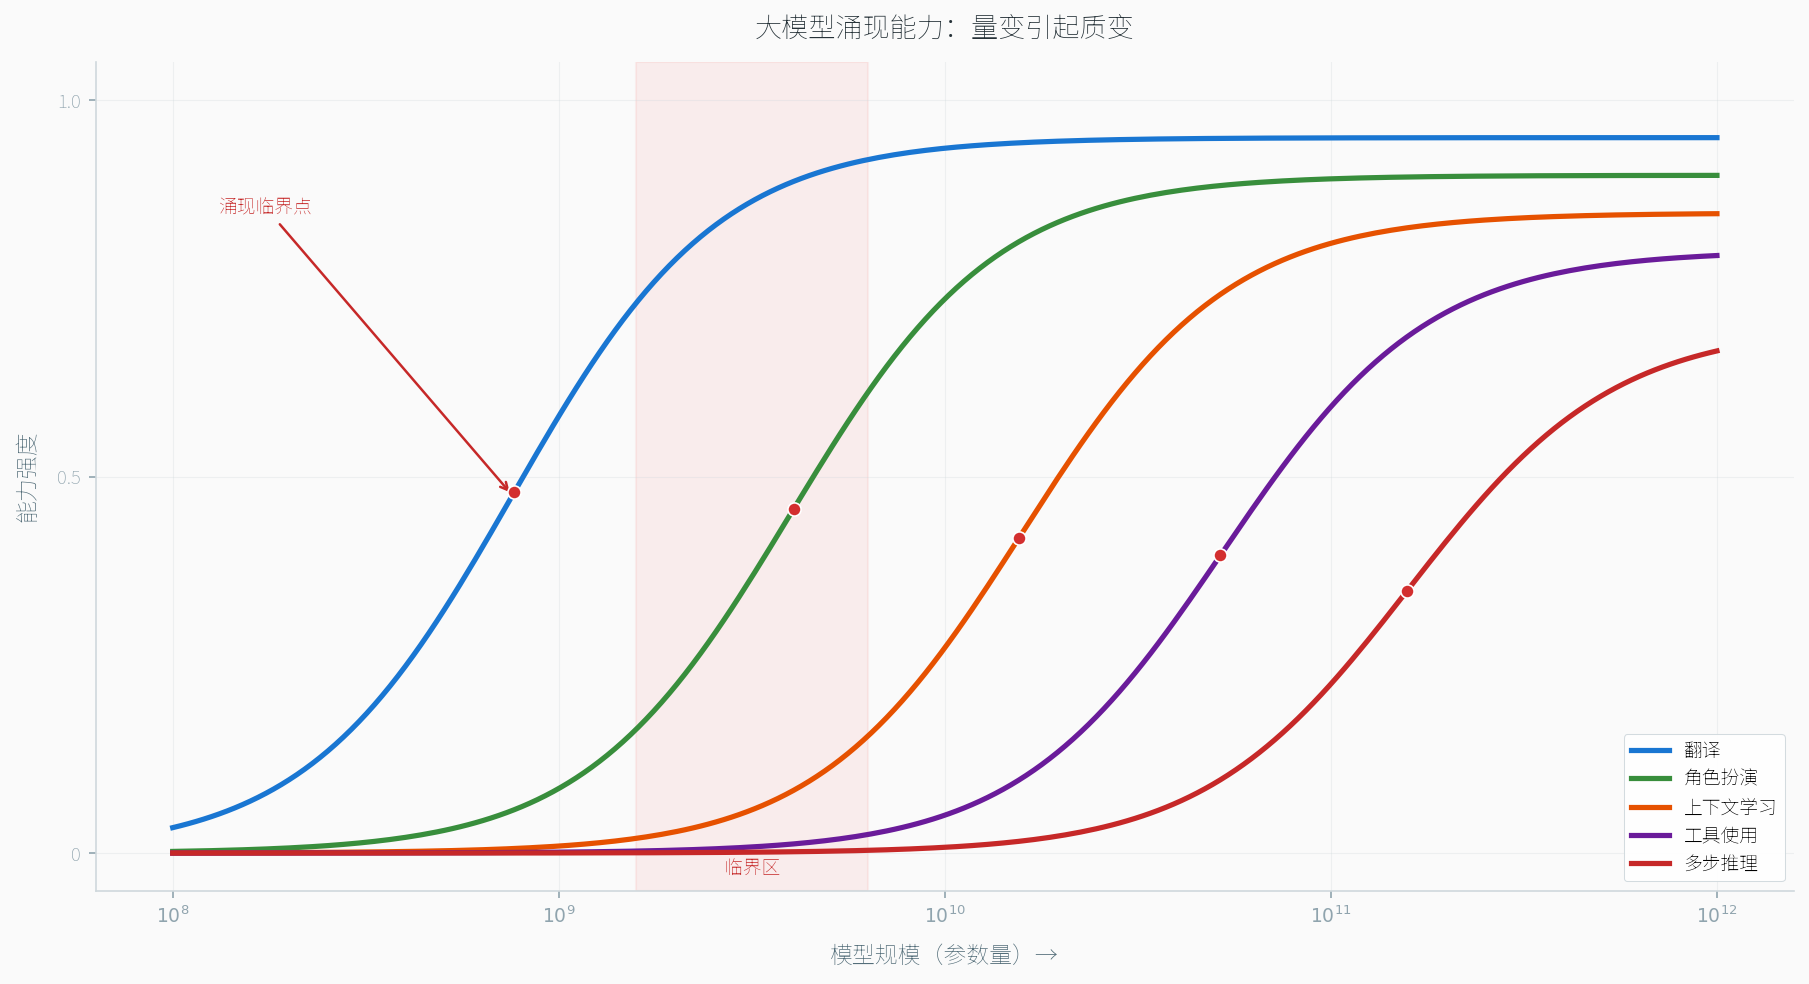
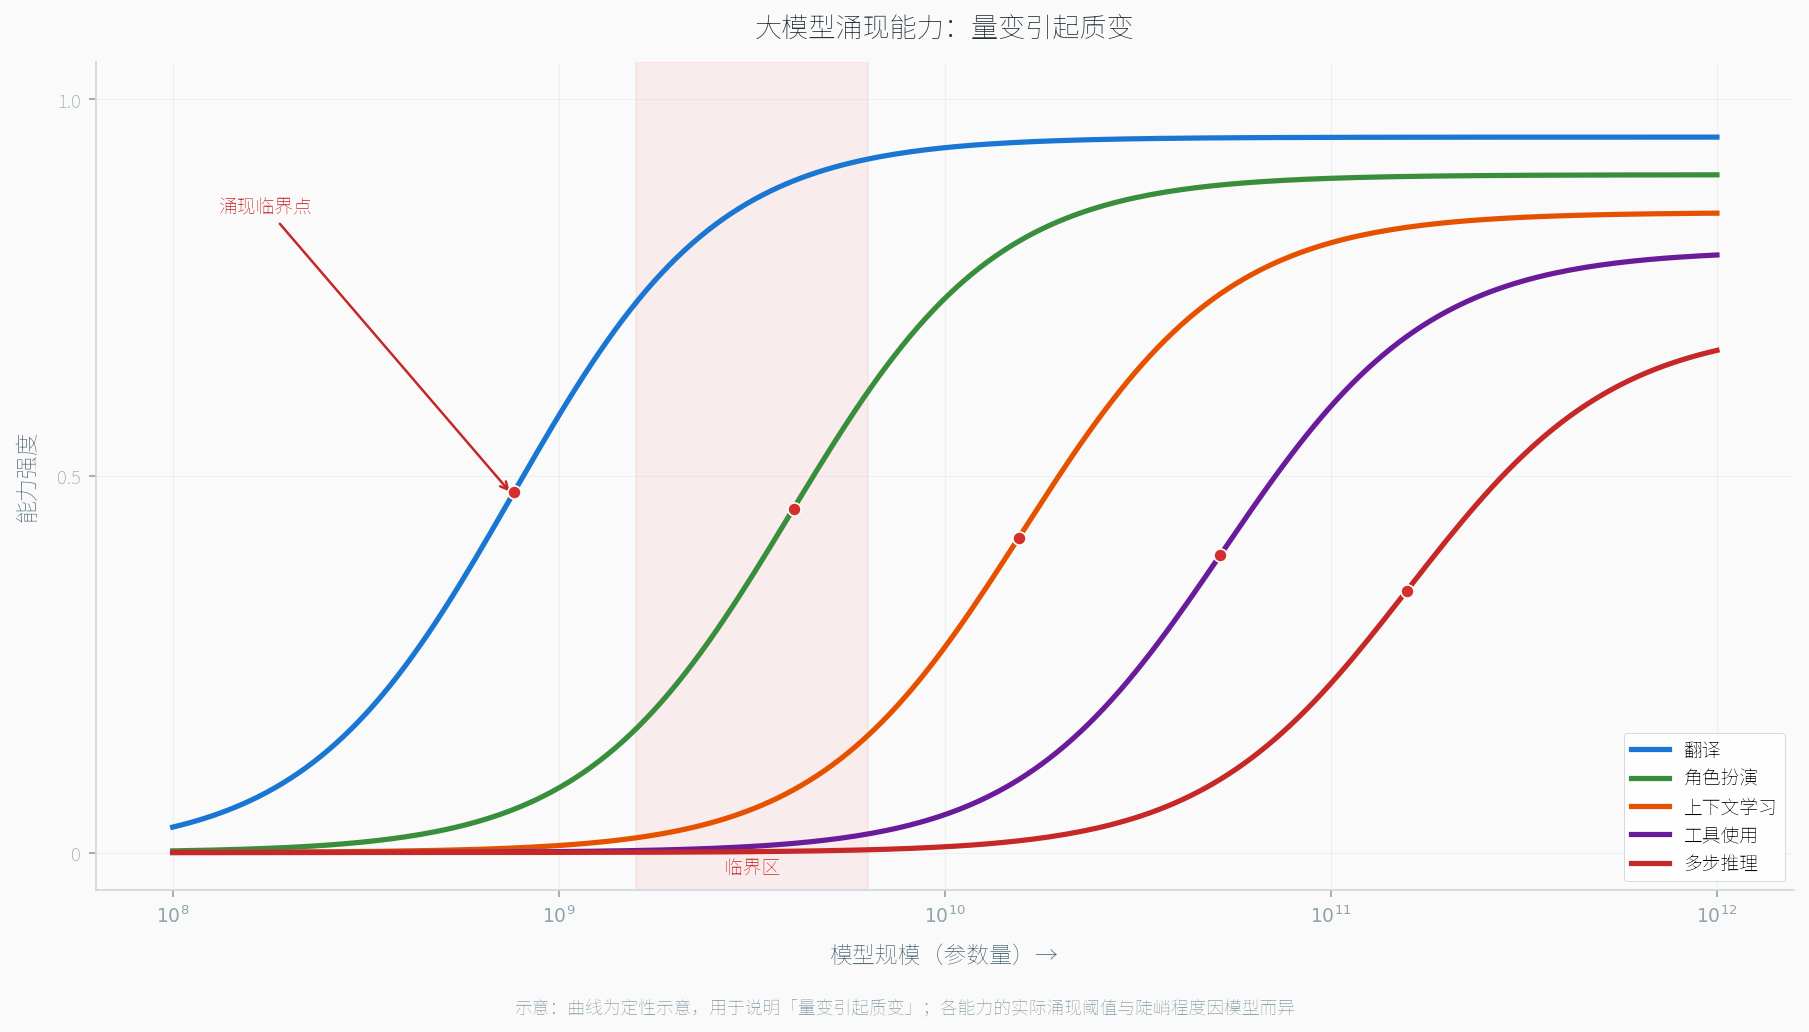
fix: 审阅并修复 6 张技术类插图，清理冗余资产
- multi-head-subspace：去掉「头编号 = 固定功能」的硬绑定，补示意说明行
- positional-encoding：补「d_model 已缩小为 64」的示意标注
- litellm-dashboard → litellm-admin-login：裁掉截图里的 DB 报错横幅，按内容重命名
- transformer-evolution-timeline：改用蓝图风重绘，补回年份并消除等距误导
- emergence-curves：补「示意」标注
- attention-complexity-comparison：补论文 Table 1 出处
- 压缩体积：litellm-api-docs 429→140KB，positional-encoding 328→122KB
- 删除孤儿图 attention-is-all-you-need-blueprint.png
- 补插漏引用的 report-agent-arch-4.jpg 至「记忆管理的两条路径」一节

diff --git a/scripts/blueprint-transformer-evolution.html b/scripts/blueprint-transformer-evolution.html
@@ -1,0 +1,138 @@
+<!DOCTYPE html>
+<html lang="zh-CN">
+<head>
+<meta charset="utf-8">
+<title>Transformer 九年演进 · 手绘图解</title>
+<style>
+__FONTFACE__
+:root{
+  --paper:#FDFBF7; --ink:#2D2D2D; --ink2:#7A7A7A;
+}
+*{box-sizing:border-box;margin:0;padding:0}
+html{background:#EFEDE6}
+body{
+  font-family:"Microsoft YaHei",sans-serif;color:var(--ink);line-height:1.6;
+  background:var(--paper);max-width:960px;margin:0 auto;padding:32px 40px 34px;
+}
+.cover-head{text-align:center;margin-bottom:6px}
+h1{font-family:"ZCOOL KuaiLe",sans-serif;font-size:30px;font-weight:400;letter-spacing:1.2px}
+h1 .dot{color:#7C3AED}
+.sub-en{font-family:"Caveat",cursive;font-size:24px;color:var(--ink2);margin-top:1px}
+.pnote{font-size:11px;color:var(--ink2);text-align:center;line-height:1.55;margin-top:6px}
+
+/* 时间轴 + 四阶段 */
+.phases{position:relative;display:flex;gap:9px;margin-top:30px}
+.phases::before{content:"";position:absolute;left:2.5%;right:2.5%;top:5px;
+  height:2px;background:#CFCAC0;z-index:0}
+.phase{flex:1 1 0;min-width:0;display:flex;flex-direction:column;align-items:center;
+  position:relative;color:#2563EB}
+.phase.p2{color:#D97706} .phase.p3{color:#7C3AED} .phase.p4{color:#16A34A}
+.axisrow{height:12px;display:flex;align-items:center;position:relative;z-index:2}
+.nd{width:12px;height:12px;border-radius:50%;background:currentColor;
+  box-shadow:0 0 0 2.4px var(--paper),0 0 0 3.8px currentColor}
+.yr{font-family:"Caveat",cursive;font-size:17.5px;font-weight:600;color:currentColor;
+  margin:2px 0 0}
+.ph-title{font-family:"ZCOOL KuaiLe",sans-serif;font-size:14.5px;color:var(--ink);
+  margin:1px 0 8px;text-align:center}
+
+.card{position:relative;width:100%;border-radius:9px;background:#fff;
+  box-shadow:2px 2px 0 #333;padding:9px 8px;display:flex;flex-direction:column;
+  flex:1 1 auto}
+.card::after{content:"";position:absolute;inset:-1px;border:1.6px solid #333;
+  border-radius:9px 12px 9px 11px;filter:url(#wobble);pointer-events:none}
+
+.item{position:relative;border-radius:6px;padding:4px 8px;margin-bottom:5px;
+  font-size:11px;line-height:1.5;background:#DBEAFE}
+.item:last-child{margin-bottom:8px}
+.item::after{content:"";position:absolute;inset:-1px;border:1.3px solid #333;
+  border-radius:6px 9px 6px 8px;filter:url(#wobble);pointer-events:none}
+.item.lead{font-weight:700}
+.item .y{font-family:Consolas,monospace;font-size:10.5px;color:#5a5a5a}
+.p2 .item{background:#FFEDD5} .p3 .item{background:#F3E8FF} .p4 .item{background:#DCFCE7}
+
+.resp{position:relative;width:100%;margin-top:auto;border-radius:7px;padding:5px 9px;
+  font-size:11px;line-height:1.5;background:#fff;box-shadow:2px 2px 0 #333;
+  border:1.4px dashed currentColor;text-align:center;color:#3f3f3f}
+.resp b{color:currentColor}
+
+.capsule{
+  margin-top:16px;display:flex;align-items:center;justify-content:center;gap:12px;
+  padding:10px 22px;background:#F9F1D2;border-radius:999px;
+  box-shadow:2.5px 2.5px 0 #333;position:relative;
+}
+.capsule::after{content:"";position:absolute;inset:-1px;border:1.8px solid #333;
+  border-radius:999px;filter:url(#wobble);pointer-events:none}
+.capsule .lbl{font-family:"Caveat",cursive;font-size:20px;color:#B45309}
+.capsule .txt{font-size:12.5px;color:#3a3a3a}
+</style>
+</head>
+<body>
+<svg width="0" height="0" style="position:absolute">
+  <filter id="wobble">
+    <feTurbulence type="fractalNoise" baseFrequency="0.009 0.014" numOctaves="3" seed="7" result="n"/>
+    <feDisplacementMap in="SourceGraphic" in2="n" scale="6.5" xChannelSelector="R" yChannelSelector="G"/>
+  </filter>
+</svg>
+
+<div class="cover-head">
+  <h1>Transformer 九年演进 <span class="dot">·</span> 手绘图解</h1>
+  <div class="sub-en">nine years, four phases</div>
+</div>
+<div class="pnote">四个阶段在时间上相互重叠、逐层叠加 —— 节点按阶段顺序排列，并非严格的时间刻度。</div>
+
+<div class="phases">
+  <div class="phase p1">
+    <div class="axisrow"><span class="nd"></span></div>
+    <div class="yr">2018 — 2020</div>
+    <div class="ph-title">拆解成三种形态</div>
+    <div class="card">
+      <div class="item">BERT <span class="y">2018</span> · Encoder-only · MLM</div>
+      <div class="item">GPT <span class="y">2018</span> / GPT-3 <span class="y">2020</span> · Decoder-only</div>
+      <div class="item">T5 <span class="y">2019</span> · Encoder-Decoder · Span 去噪</div>
+      <div class="resp">回应：<b>Encoder / Decoder 分工是否冗余</b></div>
+    </div>
+  </div>
+
+  <div class="phase p2">
+    <div class="axisrow"><span class="nd"></span></div>
+    <div class="yr">2020 — 2023</div>
+    <div class="ph-title">效率之战</div>
+    <div class="card">
+      <div class="item">Longformer <span class="y">2020</span> · 稀疏 / 线性注意力</div>
+      <div class="item">FlashAttention <span class="y">2022</span> · IO 感知 · 快 3~5×</div>
+      <div class="item">GQA / MQA <span class="y">2023</span> · 共享一组 K / V</div>
+      <div class="resp">回应：<b>O(n²) 的账单到了要还的时候</b></div>
+    </div>
+  </div>
+
+  <div class="phase p3">
+    <div class="axisrow"><span class="nd"></span></div>
+    <div class="yr">2021 — 2024</div>
+    <div class="ph-title">位置编码重写</div>
+    <div class="card">
+      <div class="item">RoPE <span class="y">2021</span> · 旋转 · 只依赖相对距离</div>
+      <div class="item">ALiBi <span class="y">2021</span> · 线性偏置 · 强外推</div>
+      <div class="item">YaRN / 插值 <span class="y">2023</span> · 4K → 32K+</div>
+      <div class="resp">回应：<b>正弦编码一旦外推就失效</b></div>
+    </div>
+  </div>
+
+  <div class="phase p4">
+    <div class="axisrow"><span class="nd"></span></div>
+    <div class="yr">2025 —</div>
+    <div class="ph-title">架构被重新提问</div>
+    <div class="card">
+      <div class="item">Transformer 能力上限之问 <span class="y">2026</span></div>
+      <div class="item">Mobius · 知识池与推理解耦</div>
+      <div class="item lead">跨模态支线：ViT <span class="y">2020</span> · 16×16 patch</div>
+      <div class="resp">回应：<b>注意力负责推理，知识放哪里</b></div>
+    </div>
+  </div>
+</div>
+
+<div class="capsule">
+  <span class="lbl">in short</span>
+  <span class="txt">每一阶段都在回答前一阶段暴露的短板 —— 更长、更快，以及知识到底该存在哪里</span>
+</div>
+</body>
+</html>

diff --git a/scripts/blueprint-multi-head-subspace.html b/scripts/blueprint-multi-head-subspace.html
@@ -23,6 +23,9 @@ h1 .dot{color:#7C3AED}
   padding-left:11px;border-left:4px solid #333}
 .sec .en{font-family:"Caveat",cursive;font-size:15px;color:var(--ink2);margin-left:7px}
 
+.hint{font-size:11px;color:#6b6b6b;line-height:1.55;margin:0 0 8px;padding-left:11px}
+.hint b{color:#333}
+
 .box{
   position:relative;border-radius:8px;padding:8px 10px;text-align:center;
   font-size:12.5px;font-weight:600;background:#fff;box-shadow:2px 2px 0 #333;
@@ -100,6 +103,7 @@ h1 .dot{color:#7C3AED}
 </div>
 
 <div class="sec">① 把 d_model 切成 8 份，每份独立做注意力<span class="en">split &amp; attend</span></div>
+<div class="hint">右侧模式标签为<b>示意</b>：每个头实际学到什么由训练动态决定，原论文只观察到「头之间发生分化」，并未给各头指派固定功能。</div>
 <div class="flow">
   <div class="left">
     <div class="box">X<span class="dim">n × 512</span></div>
@@ -114,7 +118,7 @@ h1 .dot{color:#7C3AED}
     <div class="head b2"><span class="no">Head 2</span><span class="dk">d_k = 64</span><span class="mode">代词指代</span></div>
     <div class="head b3"><span class="no">Head 3</span><span class="dk">d_k = 64</span><span class="mode">局部搭配</span></div>
     <div class="head b4"><span class="no">Head 4</span><span class="dk">d_k = 64</span><span class="mode">语义角色</span></div>
-    <div class="head b5"><span class="no">Head 5</span><span class="dk">d_k = 64</span><span class="mode">时态一致</span></div>
+    <div class="head b5"><span class="no">Head 5</span><span class="dk">d_k = 64</span><span class="mode">时态呼应</span></div>
     <div class="head b6"><span class="no">Head 6</span><span class="dk">d_k = 64</span><span class="mode">位置邻近</span></div>
     <div class="head b7"><span class="no">Head 7</span><span class="dk">d_k = 64</span><span class="mode">词形变化</span></div>
     <div class="head b8"><span class="no">Head 8</span><span class="dk">d_k = 64</span><span class="mode">领域实体</span></div>

diff --git a/scripts/generate_transformer_charts.py b/scripts/generate_transformer_charts.py
@@ -88,6 +88,20 @@ def save(fig, name):
     print(f'  [OK] {name}')
 
 
+def quantize(name, colors=256):
+    """把已生成的 PNG 量化到调色板模式以压体积（博客约定要求图表 < 300KB）。
+
+    用于热力图这类渐变多、PNG 偏大的图；256 色对本站图表视觉无损。
+    """
+    from PIL import Image
+    path = os.path.join(OUTPUT_DIR, name)
+    before = os.path.getsize(path)
+    img = Image.open(path).convert('RGB')
+    img.quantize(colors=colors, method=Image.MEDIANCUT,
+                 dither=Image.NONE).save(path, optimize=True)
+    print(f'  [OK] {name} 量化：{before // 1024}KB → {os.path.getsize(path) // 1024}KB')
+
+
 # ============================================================
 # 图 1: Transformer 整体架构
 # ============================================================
@@ -404,7 +418,12 @@ def create_positional_encoding():
                  'PE(pos, 2i+1) = cos(pos / 10000^(2i/d))',
                  fontsize=11, color=C['text_light'], y=0.97)
 
+    fig.text(0.5, 0.008,
+             '示意：为便于观察条纹结构，此处把 d_model 缩小为 64 展示（原论文 base 模型为 512）',
+             ha='center', fontsize=9, color=C['text_muted'])
+
     save(fig, 'positional-encoding.png')
+    quantize('positional-encoding.png')
 
 
 # ============================================================
@@ -473,6 +492,10 @@ def create_complexity_comparison():
     ax2.set_xlim(0.7, N * 4)
     ax2.grid(alpha=0.25, linestyle='--', axis='x')
     ax2.tick_params(labelsize=9)
+
+    fig.text(0.5, 0.004,
+             '数据来源：《Attention Is All You Need》(arXiv:1706.03762) Table 1',
+             ha='center', fontsize=8.5, color=C['text_muted'])
 
     fig.tight_layout()
     save(fig, 'attention-complexity-comparison.png')

diff --git a/scripts/generate_blog_charts.py b/scripts/generate_blog_charts.py
@@ -255,6 +255,9 @@ def create_emergence_curves():
                  color=C['text'], pad=12)
 
     plt.tight_layout(pad=0.5)
+    fig.text(0.5, -0.035,
+             '示意：曲线为定性示意，用于说明「量变引起质变」；各能力的实际涌现阈值与陡峭程度因模型而异',
+             ha='center', fontsize=8.5, color=C['text_muted'])
     out = os.path.join(OUTPUT_DIR, 'emergence-curves.png')
     fig.savefig(out, dpi=150, bbox_inches='tight', facecolor=C['bg'], edgecolor='none')
     plt.close(fig)
